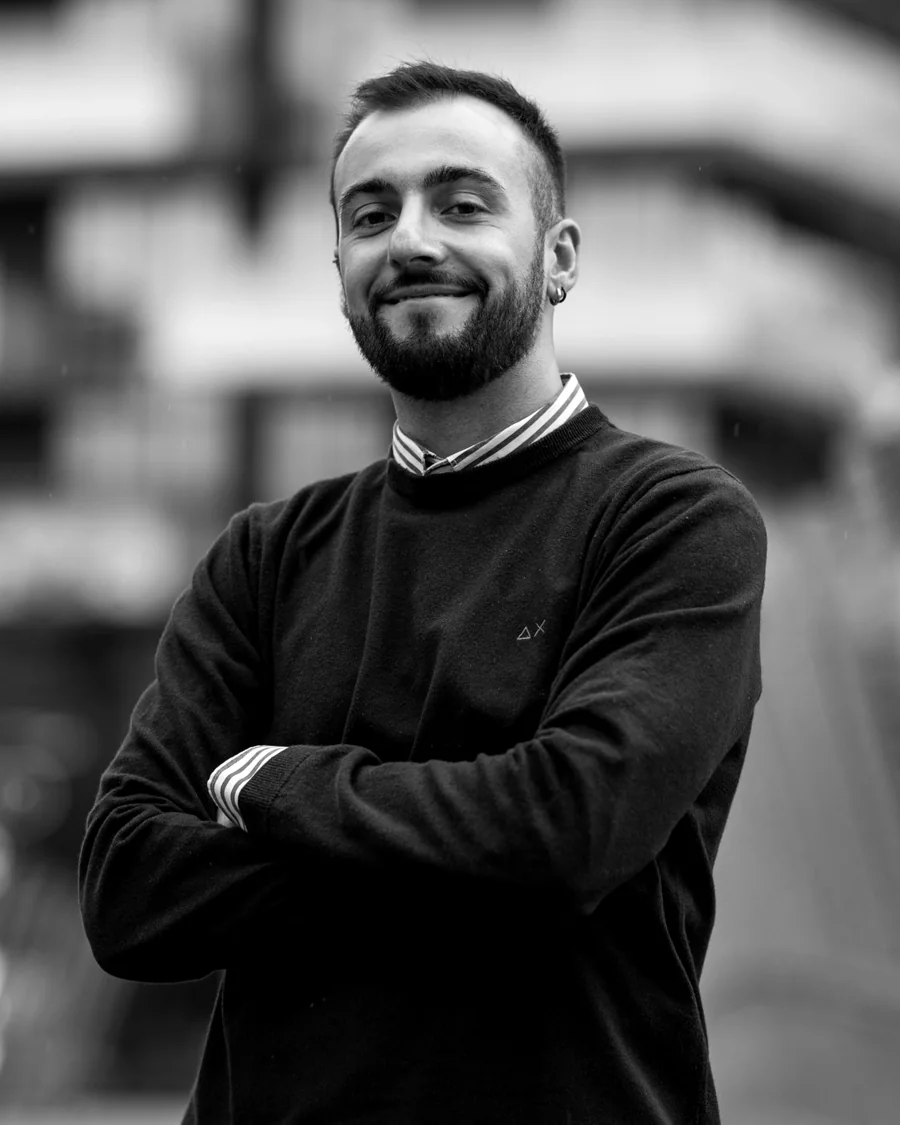
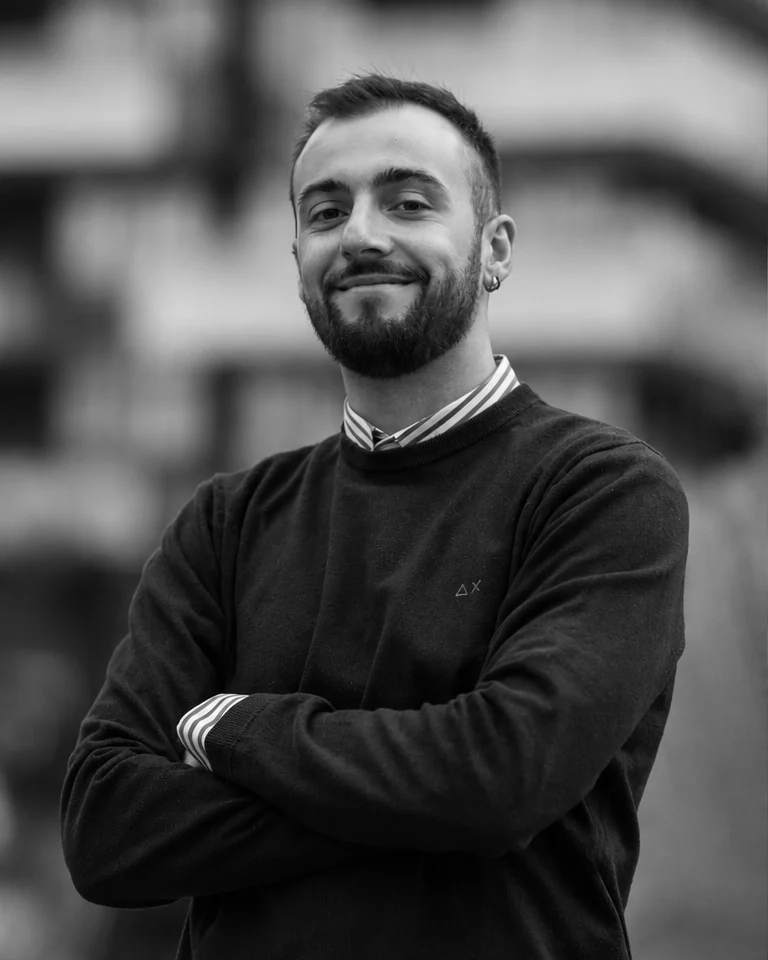
Add files via upload

diff --git a/index.html b/index.html
@@ -443,16 +443,16 @@ body::before{content:"";position:fixed;inset:0 0 auto;height:env(safe-area-inset
     </div>
     <div class="founders">
       <article class="founder">
-        <div class="ph-box" role="img" aria-label="Foto Alberto" data-i18n="ph.alberto">[Foto · Alberto]</div>
+        <img class="portrait" src="img/alberto.webp" alt="Alberto Dellacasa Bellingegni" width="765" height="956" loading="lazy">
         <h3>Alberto Dellacasa Bellingegni</h3>
         <p class="role" data-i18n="alberto.role">Elettronica, hardware e software</p>
-        <p data-i18n="alberto.bio">Da dieci anni lavora nella protesica, tra elettronica, hardware e software. Pesca a carpa ogni weekend, da anni.</p>
+        <p data-i18n="alberto.bio">Ingegnere biomedico con dottorato in Bioingegneria sul controllo delle protesi con il machine learning. Da oltre dieci anni sviluppa elettronica, firmware e dispositivi medicali certificati CE per protesi bioniche, tra ricerca, IIT e R&amp;D automotive, e ne gestisce verifica e validazione.</p>
       </article>
       <article class="founder">
-        <img class="portrait" src="img/simone.webp" alt="Simone Perini" width="900" height="1125" loading="lazy">
+        <img class="portrait" src="img/simone.webp" alt="Simone Perini" width="768" height="960" loading="lazy">
         <h3>Simone Perini</h3>
         <p class="role" data-i18n="simone.role">Design di prodotto</p>
-        <p data-i18n="simone.bio">Designer di prodotto e computazionale. Progetta protesi e ortesi per la stampa 3D. Il suo progetto D-Pulp è stato riconosciuto al James Dyson Award (Italia) e agli iF Award, e ha partecipato al Cybathlon 2024.</p>
+        <p data-i18n="simone.bio">Designer di prodotto e computazionale. Da oltre quattro anni sviluppa algoritmi parametrici per protesi e ortesi su misura stampate in 3D, e progetta texture e sistemi parametrici per l'automotive e il prodotto industriale. Il suo D-Pulp ha vinto l'iF Design Award e il James Dyson Award Italia.</p>
       </article>
     </div>
   </div>
@@ -558,9 +558,9 @@ const EN = {
   "about.lead":"For years we designed medical devices that have to work every day, without exception. Now we bring the same care to a bite alarm.",
   "ph.alberto":"[Photo · Alberto]",
   "alberto.role":"Electronics, hardware and software",
-  "alberto.bio":"Ten years in prosthetics, across electronics, hardware and software. He has been carp fishing every weekend for years.",
+  "alberto.bio":"Biomedical engineer with a PhD in Bioengineering on machine-learning control of prostheses. For over ten years he has built electronics, firmware and CE-marked medical devices for bionic prostheses, across research, IIT and automotive R&D, and leads their verification and validation.",
   "simone.role":"Product design",
-  "simone.bio":"Product and computational designer. He designs prostheses and orthoses for 3D printing. His D-Pulp project was recognised at the James Dyson Award (Italy) and the iF Design Award, and took part in Cybathlon 2024.",
+  "simone.bio":"Product and computational designer. For over four years he has built parametric algorithms for custom 3D-printed prostheses and orthoses, and designs textures and parametric systems for automotive and industrial products. His D-Pulp won the iF Design Award and the James Dyson Award Italy.",
   "close.title":"Be the first to know.",
   "close.lead":"Send us an email: we'll let you know as soon as Rever One is available.",
   "copy":"Copy address","copied":"Address copied","selected":"Selected: press Copy",
